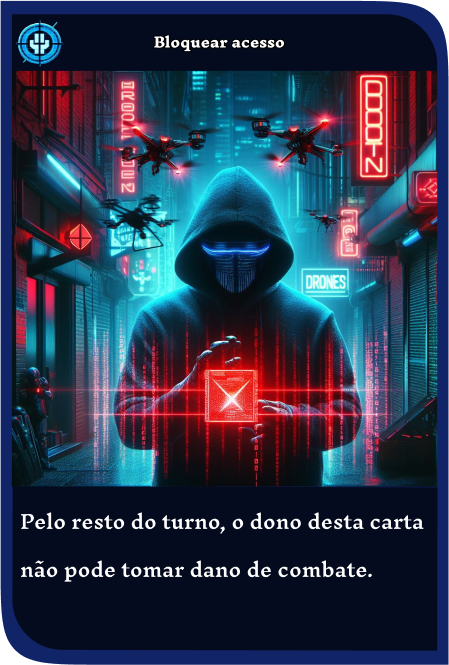
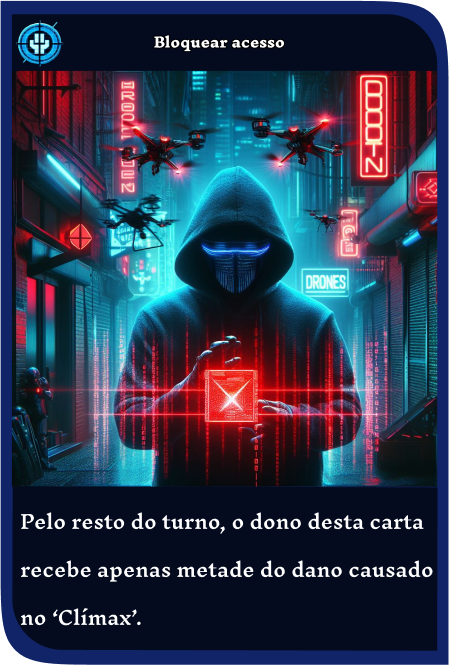
fix: Rebalancement of cards

Changed region(s): [[0.0624, 0.8421, 0.9666, 0.8722], [0.0624, 0.9023, 0.3118, 0.9624]]

diff --git a/ws/src/core/Cards/Cards-Effects/offensives/Estimulante-a.ts b/ws/src/core/Cards/Cards-Effects/offensives/Estimulante-a.ts
@@ -1,15 +1,13 @@
 import { Avatar } from "../../../Avatares/Avatar";
-import { Player } from "../../../Players/Player";
 import { CardEffect, TargetToEffects } from "../Card-Effect";
 
 export class Estimulante_A implements CardEffect {
-    private _baseIncreaseAttack: number = 4;
+    private _baseIncreaseAttack: number = 5;
     /*
-    Aumenta os pontos de ataque do avatar alvo em 4, se for utilizada mais de uma vez no mesmo turno, o efeito diminui pela metade.
+    Aumenta os pontos de ataque do avatar alvo em 5.
     */
     applyEffect({player}: TargetToEffects): void {
         if(player.avatar instanceof Avatar){
-            this._checkIfCardWasUsedBefore(player);
             player.avatar.changeAttack = {
                 value: this._baseIncreaseAttack,
                 type: "increase"
@@ -24,19 +22,6 @@ export class Estimulante_A implements CardEffect {
                 value: this._baseIncreaseAttack,
                 type: "decrease"
             }
-        }
-    }
-
-    private _checkIfCardWasUsedBefore(player: Player) {
-        const playerField = player.field;
-        let count = 0;
-        playerField.forEach(field => {
-            if(field.card?.id_card === "4875dcd2-d13d-4425-9c05-1472bdb9466c" && field.card.isActivate){
-                count++;
-            }
-        })
-        if(count >= 2){
-            this._baseIncreaseAttack /= 2;
         }
     }
 }

diff --git a/ws/src/core/Cards/Cards-Effects/offensives/Ctrl_z.ts b/ws/src/core/Cards/Cards-Effects/offensives/Ctrl_z.ts
@@ -2,20 +2,19 @@ import { CardEffect, TargetToEffects } from "../Card-Effect";
 
 export class CtrlZ implements CardEffect {
     private _previousHPEnemy: number = 0;
-    // Aumente o ataque em 2 e cure metade do dano que você causar no oponente durante o 'Clímax'.
+    // Aumente o ataque em 5 e cure metade do dano que você causar no oponente durante o 'Clímax'.
     applyEffect({player, enemy}: TargetToEffects): void {
 
         this._previousHPEnemy = enemy.avatar.hp;
         if(player.avatar){
             player.avatar.changeAttack = {
                 type: "increase",
-                value: 2
+                value: 5
             };
         }
     }
 
     revertEffect({player, enemy}: TargetToEffects): void {
-        
         const damage = this._previousHPEnemy - enemy.avatar.hp;
         if(damage > 0){
             player.avatar.hp += Math.ceil(damage/2);
@@ -23,7 +22,7 @@ export class CtrlZ implements CardEffect {
         if(player.avatar){
             player.avatar.changeAttack = {
                 type: "decrease",
-                value: 2
+                value: 5
             }
         }
     }

diff --git a/ws/src/core/Cards/Cards-Effects/offensives/Arquivo_corrompido.ts b/ws/src/core/Cards/Cards-Effects/offensives/Arquivo_corrompido.ts
@@ -1,24 +1,22 @@
 import { CardEffect, TargetToEffects } from "../Card-Effect";
 
 export class ArquivoCorrompido implements CardEffect{
-    // Perca 10 pontos de vida; e após isso, seu avatar ganha 12 pontos de ataque.
+    // Perca 7 pontos de vida; e após isso, seu avatar ganha 10 pontos de ataque.
     applyEffect({player}: TargetToEffects): void {
-
         if(player.avatar){
-            player.avatar.changeHitPoints = 10;
+            player.avatar.hp -= 10;
             player.avatar.changeAttack = {
                 type: "increase",
-                value: 12
+                value: 10
             };
         }
     }
 
     revertEffect({player}: TargetToEffects): void {
-
         if(player.avatar){
             player.avatar.changeAttack = {
                 type: "decrease",
-                value: 12
+                value: 10
             }
         }
     }

diff --git a/ws/src/core/Cards/Cards-Effects/defensives/Bloquear_acesso.ts b/ws/src/core/Cards/Cards-Effects/defensives/Bloquear_acesso.ts
@@ -1,14 +1,14 @@
 import { CardEffect, TargetToEffects } from "../Card-Effect";
 
 export class BloquearAcesso implements CardEffect{
-    // "Pelo resto do turno, o dono desta carta não pode tomar dano de combate."
+    // "Pelo resto do turno, o dono desta carta recebe apenas metade do dano de combate"
     private _baseSelfDamageMultiplier: number = 1;
     private _baseDamageMultiplier: number = 1;
 
     applyEffect({player, enemy}: TargetToEffects): void {
 
-        player.selfDamageMultiplierValue = 0;
-        enemy.damageMultiplierValue = 0;
+        player.selfDamageMultiplierValue = 0.5;
+        enemy.damageMultiplierValue = 0.5;
     }
     revertEffect({player, enemy}: TargetToEffects): void {
         player.selfDamageMultiplierValue = this._baseSelfDamageMultiplier;

diff --git a/ws/src/core/Cards/Cards-Effects/offensives/Recorte-de-codigo.ts b/ws/src/core/Cards/Cards-Effects/offensives/Recorte-de-codigo.ts
@@ -3,7 +3,7 @@ import { CardEffect, TargetToEffects } from "../Card-Effect";
 
 export class RecorteDeCodigo implements CardEffect {
     /*
-    equipa no avatar uma lamina que aumenta seu ataque em 2 e diminui a defesa do alvo do ataque em  3 pontos. O efeito de “Recorte de código" dura 2 turnos, só pode ter uma desta carta ativa.
+    equipa no avatar uma lamina que aumenta seu ataque em 2 e diminui a defesa do alvo do ataque em  3 pontos. O efeito de “Recorte de código" dura 2 turnos.
     */
     applyEffect({player, enemy}: TargetToEffects): void {
         if(player.avatar instanceof Avatar){

diff --git a/ws/src/core/Room/Room.ts b/ws/src/core/Room/Room.ts
@@ -57,7 +57,7 @@ export class GameRoom {
 
         // Set turn owner based on avatar type
         const host = this.setTurnOwner(this.player_host.avatar.type)
-        const guest = this.setTurnOwner(this.player_host.avatar.type)
+        const guest = this.setTurnOwner(this.player_guest.avatar.type)
         
         if(host < guest){
             this.turnOwner = this.player_host.id;
